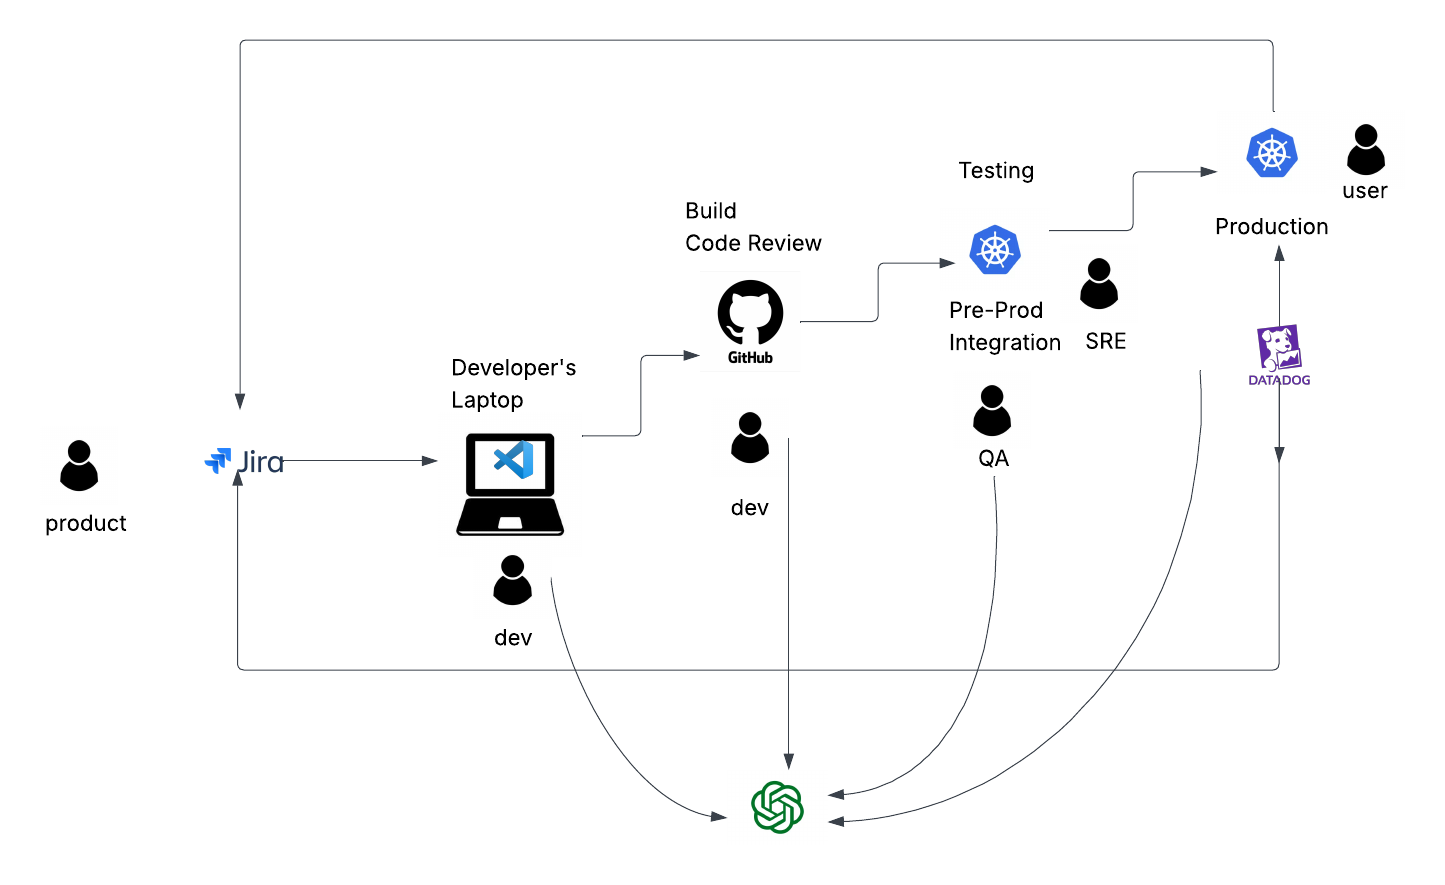
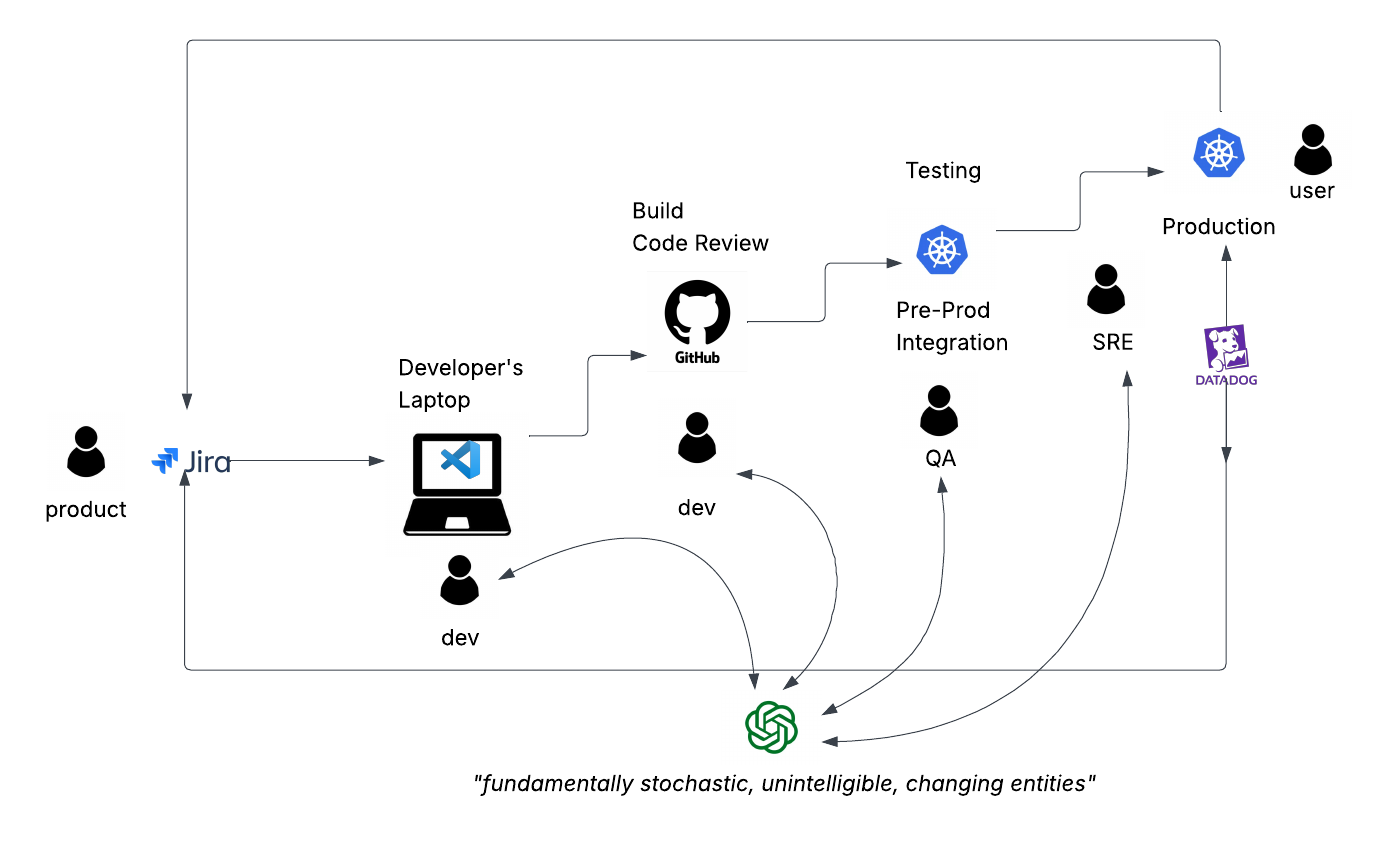
Update slide images and adjust content for clarity in workflow presentation

diff --git a/slides/slides.html b/slides/slides.html
@@ -418,16 +418,10 @@ unintelligible, changing entities</p>
 to be good old fashioned engineering</p>
 </blockquote>
 </section>
-</foreignObject><foreignObject width="1280" height="720" data-marpit-advanced-background="pseudo"><section data-paginate="true" data-class="split" data-theme="default" lang="en-US" class="split" data-marpit-pagination="56" style="" data-marpit-pagination-total="87" data-marpit-advanced-background="pseudo" data-marpit-advanced-background-split="left"></section></foreignObject></svg><svg data-marpit-svg="" viewBox="0 0 1280 720"><foreignObject width="1280" height="720"><section data-paginate="true" data-header="Old fashioned engineering" data-theme="default" lang="en-US" data-marpit-pagination="57" style="--paginate:true;--header:Old fashioned engineering;--theme:default;" data-marpit-pagination-total="87" data-marpit-advanced-background="background"><div data-marpit-advanced-background-container="true" data-marpit-advanced-background-direction="horizontal"><figure style="background-image:url(&quot;assets/01_workflow_without_bugs.png&quot;);background-size:contain;"></figure></div></section></foreignObject><foreignObject width="1280" height="720"><section id="57" data-paginate="true" data-header="Old fashioned engineering" data-theme="default" lang="en-US" data-marpit-pagination="57" style="--paginate:true;--header:Old fashioned engineering;--theme:default;" data-marpit-pagination-total="87" data-marpit-advanced-background="content">
-<header>Old fashioned engineering</header>
-</section>
-</foreignObject><foreignObject width="1280" height="720" data-marpit-advanced-background="pseudo"><section data-paginate="true" data-header="Old fashioned engineering" data-theme="default" lang="en-US" data-marpit-pagination="57" style="" data-marpit-pagination-total="87" data-marpit-advanced-background="pseudo"></section></foreignObject></svg><svg data-marpit-svg="" viewBox="0 0 1280 720"><foreignObject width="1280" height="720"><section data-paginate="true" data-theme="default" lang="en-US" data-marpit-pagination="58" style="--paginate:true;--theme:default;" data-marpit-pagination-total="87" data-marpit-advanced-background="background"><div data-marpit-advanced-background-container="true" data-marpit-advanced-background-direction="horizontal"><figure style="background-image:url(&quot;assets/01_workflow_with_bugs.png&quot;);background-size:contain;"></figure></div></section></foreignObject><foreignObject width="1280" height="720"><section id="58" data-paginate="true" data-theme="default" lang="en-US" data-marpit-pagination="58" style="--paginate:true;--theme:default;" data-marpit-pagination-total="87" data-marpit-advanced-background="content">
-<h1 id="bugs-crawls-out-after-deployment">Bugs crawls out after deployment</h1>
-</section>
-</foreignObject><foreignObject width="1280" height="720" data-marpit-advanced-background="pseudo"><section data-paginate="true" data-theme="default" lang="en-US" data-marpit-pagination="58" style="" data-marpit-pagination-total="87" data-marpit-advanced-background="pseudo"></section></foreignObject></svg><svg data-marpit-svg="" viewBox="0 0 1280 720"><foreignObject width="1280" height="720"><section data-paginate="true" data-header="fundamentally stochastic, unintelligible, changing entities" data-theme="default" lang="en-US" data-marpit-pagination="59" style="--paginate:true;--header:fundamentally stochastic, unintelligible, changing entities;--theme:default;" data-marpit-pagination-total="87" data-marpit-advanced-background="background"><div data-marpit-advanced-background-container="true" data-marpit-advanced-background-direction="horizontal"><figure style="background-image:url(&quot;assets/01_workflow_with_ai_without_bugs.png&quot;);background-size:contain;"></figure></div></section></foreignObject><foreignObject width="1280" height="720"><section id="59" data-paginate="true" data-header="fundamentally stochastic, unintelligible, changing entities" data-theme="default" lang="en-US" data-marpit-pagination="59" style="--paginate:true;--header:fundamentally stochastic, unintelligible, changing entities;--theme:default;" data-marpit-pagination-total="87" data-marpit-advanced-background="content">
-<header>fundamentally stochastic, unintelligible, changing entities</header>
-</section>
-</foreignObject><foreignObject width="1280" height="720" data-marpit-advanced-background="pseudo"><section data-paginate="true" data-header="fundamentally stochastic, unintelligible, changing entities" data-theme="default" lang="en-US" data-marpit-pagination="59" style="" data-marpit-pagination-total="87" data-marpit-advanced-background="pseudo"></section></foreignObject></svg><svg data-marpit-svg="" viewBox="0 0 1280 720"><foreignObject width="1280" height="720"><section data-paginate="true" data-class="split" data-theme="default" lang="en-US" class="split" data-marpit-pagination="60" style="--paginate:true;--class:split;--theme:default;" data-marpit-pagination-total="87" data-marpit-advanced-background="background"><div data-marpit-advanced-background-container="true" data-marpit-advanced-background-direction="horizontal"><figure style="background-image:url(&quot;assets/01_shift_left.png&quot;);background-size:contain;"></figure></div></section></foreignObject><foreignObject width="1280" height="720"><section id="60" data-paginate="true" data-class="split" data-theme="default" lang="en-US" class="split" data-marpit-pagination="60" style="--paginate:true;--class:split;--theme:default;" data-marpit-pagination-total="87" data-marpit-advanced-background="content"></section>
+</foreignObject><foreignObject width="1280" height="720" data-marpit-advanced-background="pseudo"><section data-paginate="true" data-class="split" data-theme="default" lang="en-US" class="split" data-marpit-pagination="56" style="" data-marpit-pagination-total="87" data-marpit-advanced-background="pseudo" data-marpit-advanced-background-split="left"></section></foreignObject></svg><svg data-marpit-svg="" viewBox="0 0 1280 720"><foreignObject width="1280" height="720"><section data-paginate="true" data-theme="default" lang="en-US" data-marpit-pagination="57" style="--paginate:true;--theme:default;" data-marpit-pagination-total="87" data-marpit-advanced-background="background"><div data-marpit-advanced-background-container="true" data-marpit-advanced-background-direction="horizontal"><figure style="background-image:url(&quot;assets/01_workflow_without_bugs.png&quot;);background-size:contain;"></figure></div></section></foreignObject><foreignObject width="1280" height="720"><section id="57" data-paginate="true" data-theme="default" lang="en-US" data-marpit-pagination="57" style="--paginate:true;--theme:default;" data-marpit-pagination-total="87" data-marpit-advanced-background="content"></section>
+</foreignObject><foreignObject width="1280" height="720" data-marpit-advanced-background="pseudo"><section data-paginate="true" data-theme="default" lang="en-US" data-marpit-pagination="57" style="" data-marpit-pagination-total="87" data-marpit-advanced-background="pseudo"></section></foreignObject></svg><svg data-marpit-svg="" viewBox="0 0 1280 720"><foreignObject width="1280" height="720"><section data-paginate="true" data-theme="default" lang="en-US" data-marpit-pagination="58" style="--paginate:true;--theme:default;" data-marpit-pagination-total="87" data-marpit-advanced-background="background"><div data-marpit-advanced-background-container="true" data-marpit-advanced-background-direction="horizontal"><figure style="background-image:url(&quot;assets/01_workflow_with_ai_without_bugs.png&quot;);background-size:contain;"></figure></div></section></foreignObject><foreignObject width="1280" height="720"><section id="58" data-paginate="true" data-theme="default" lang="en-US" data-marpit-pagination="58" style="--paginate:true;--theme:default;" data-marpit-pagination-total="87" data-marpit-advanced-background="content"></section>
+</foreignObject><foreignObject width="1280" height="720" data-marpit-advanced-background="pseudo"><section data-paginate="true" data-theme="default" lang="en-US" data-marpit-pagination="58" style="" data-marpit-pagination-total="87" data-marpit-advanced-background="pseudo"></section></foreignObject></svg><svg data-marpit-svg="" viewBox="0 0 1280 720"><foreignObject width="1280" height="720"><section data-paginate="true" data-theme="default" lang="en-US" data-marpit-pagination="59" style="--paginate:true;--theme:default;" data-marpit-pagination-total="87" data-marpit-advanced-background="background"><div data-marpit-advanced-background-container="true" data-marpit-advanced-background-direction="horizontal"><figure style="background-image:url(&quot;assets/01_workflow_with_bugs.png&quot;);background-size:contain;"></figure></div></section></foreignObject><foreignObject width="1280" height="720"><section id="59" data-paginate="true" data-theme="default" lang="en-US" data-marpit-pagination="59" style="--paginate:true;--theme:default;" data-marpit-pagination-total="87" data-marpit-advanced-background="content"></section>
+</foreignObject><foreignObject width="1280" height="720" data-marpit-advanced-background="pseudo"><section data-paginate="true" data-theme="default" lang="en-US" data-marpit-pagination="59" style="" data-marpit-pagination-total="87" data-marpit-advanced-background="pseudo"></section></foreignObject></svg><svg data-marpit-svg="" viewBox="0 0 1280 720"><foreignObject width="1280" height="720"><section data-paginate="true" data-class="split" data-theme="default" lang="en-US" class="split" data-marpit-pagination="60" style="--paginate:true;--class:split;--theme:default;" data-marpit-pagination-total="87" data-marpit-advanced-background="background"><div data-marpit-advanced-background-container="true" data-marpit-advanced-background-direction="horizontal"><figure style="background-image:url(&quot;assets/01_shift_left.png&quot;);background-size:contain;"></figure></div></section></foreignObject><foreignObject width="1280" height="720"><section id="60" data-paginate="true" data-class="split" data-theme="default" lang="en-US" class="split" data-marpit-pagination="60" style="--paginate:true;--class:split;--theme:default;" data-marpit-pagination-total="87" data-marpit-advanced-background="content"></section>
 </foreignObject><foreignObject width="1280" height="720" data-marpit-advanced-background="pseudo"><section data-paginate="true" data-class="split" data-theme="default" lang="en-US" class="split" data-marpit-pagination="60" style="" data-marpit-pagination-total="87" data-marpit-advanced-background="pseudo"></section></foreignObject></svg><svg data-marpit-svg="" viewBox="0 0 1280 720"><foreignObject width="1280" height="720"><section id="61" data-paginate="true" data-theme="default" lang="en-US" data-marpit-pagination="61" style="--paginate:true;--theme:default;" data-marpit-pagination-total="87">
 <p><img src="assets/01_traditional.png" alt="traditional" /></p>
 </section>

diff --git a/slides/slides.md b/slides/slides.md
@@ -676,22 +676,21 @@ to be good old fashioned engineering
 
 ---
 
-<!-- _header: 'Old fashioned engineering' -->
-
 ![bg fit](assets/01_workflow_without_bugs.png)
 
 ---
 
-# Bugs crawls out after deployment
-![bg fit](assets/01_workflow_with_bugs.png)
-
----
-<!-- _header: fundamentally stochastic, unintelligible, changing entities -->
 ![bg fit](assets/01_workflow_with_ai_without_bugs.png)
 
 ---
+
+![bg fit](assets/01_workflow_with_bugs.png)
+
+---
+
 <!-- _class: split -->
 ![bg fit](assets/01_shift_left.png)
+
 
 ---
 
